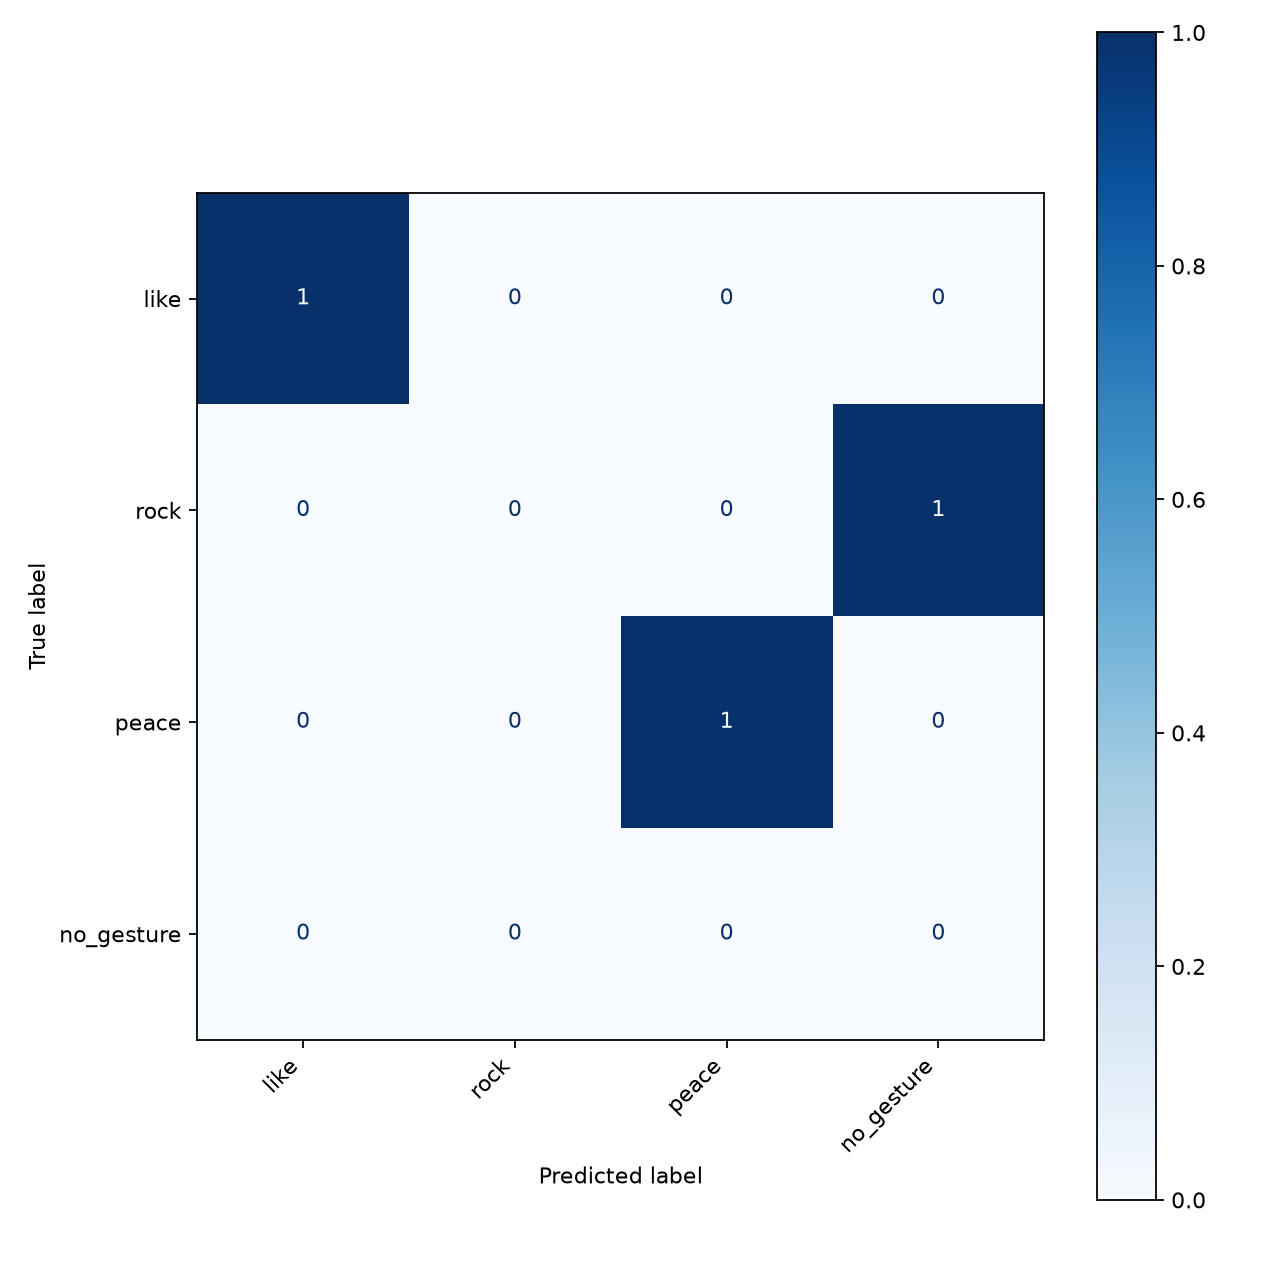
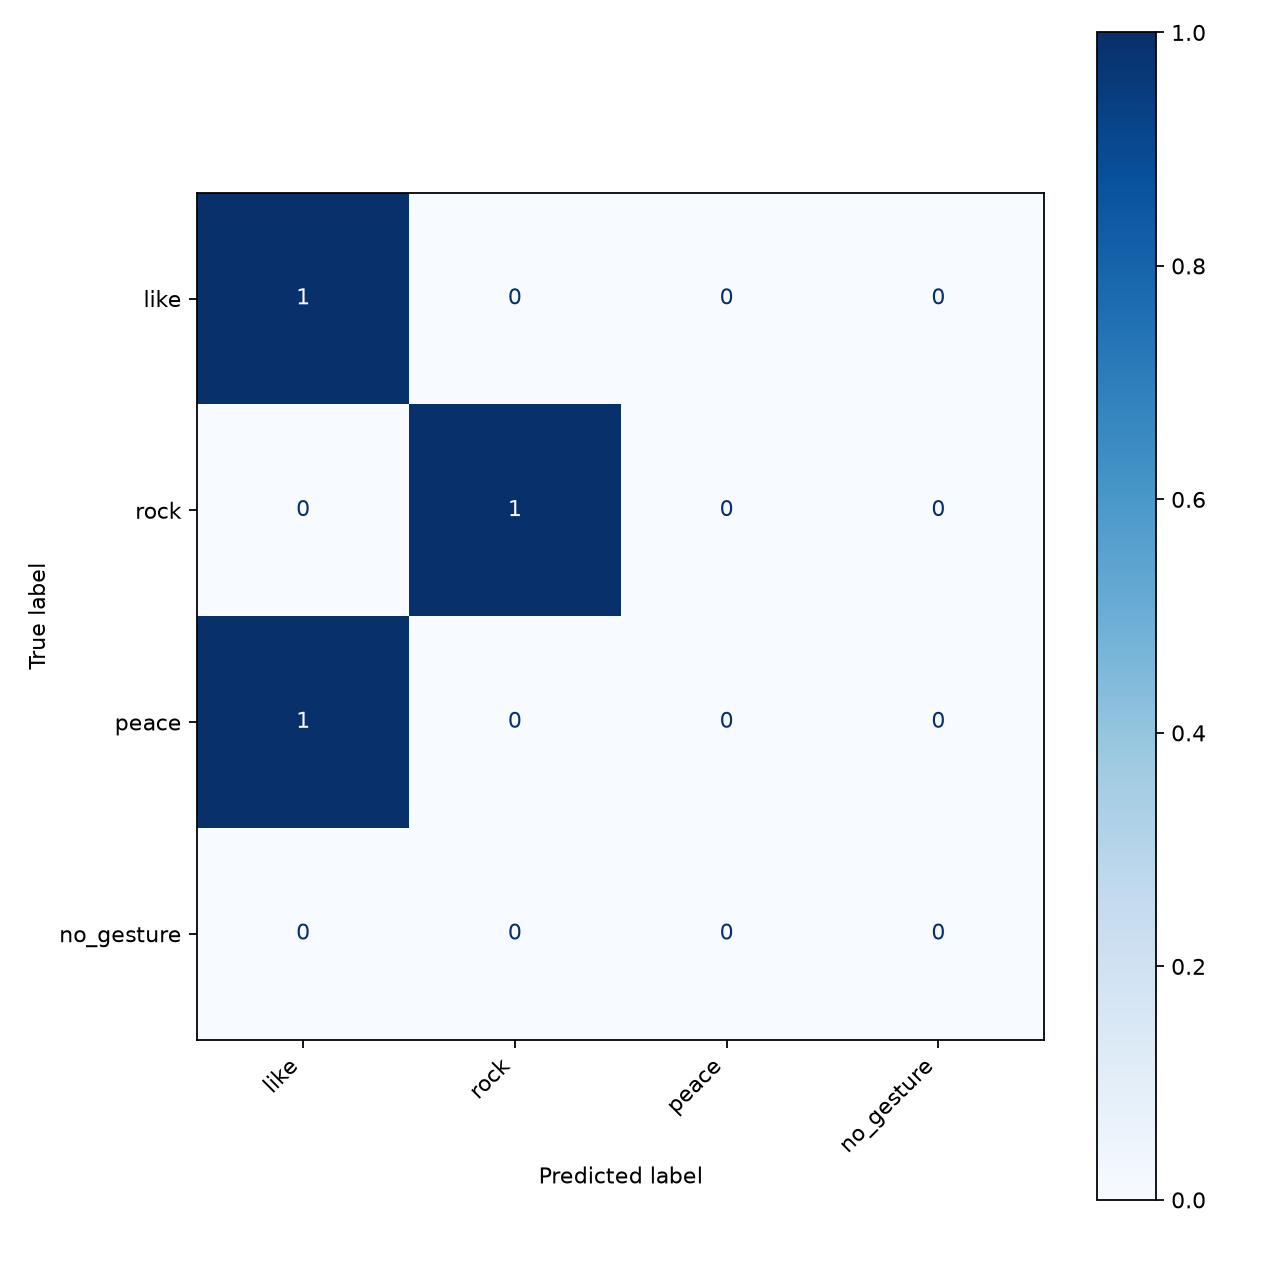
fix cropping

Changed region(s): [[0.1562, 0.3125, 0.8125, 0.6562]]

diff --git a/02-dataset/plotConfMatrix.py b/02-dataset/plotConfMatrix.py
@@ -1,0 +1,199 @@
+import argparse
+import json
+import os
+import tempfile
+from pathlib import Path
+
+import cv2
+import numpy as np
+
+cache_dir = Path(tempfile.gettempdir()) / "gesture_confusion_matrix_cache"
+os.environ.setdefault("MPLCONFIGDIR", str(cache_dir / "matplotlib"))
+os.environ.setdefault("XDG_CACHE_HOME", str(cache_dir / "xdg"))
+
+import matplotlib
+
+matplotlib.use("Agg")
+from matplotlib import pyplot as plt
+from keras.models import load_model
+from sklearn.metrics import ConfusionMatrixDisplay, confusion_matrix
+
+IMG_SIZE = 64
+COLOR_CHANNELS = 3
+DEFAULT_LABEL_NAMES = ["like", "rock", "peace", "no_gesture"]
+OUTPUT = "confusion_matrix_samuel_scheer.png"
+MODEL = "gesture_recognition.keras"
+JSON = "samuel_scheer_images/annot-samuel_scheer.json"
+
+
+def parse_args():
+    script_dir = Path(__file__).resolve().parent
+
+    parser = argparse.ArgumentParser(
+        description="Predict gesture labels from an annotation JSON and plot a confusion matrix."
+    )
+    parser.add_argument(
+        "--model",
+        type=Path,
+        default=script_dir / MODEL,
+    )
+    parser.add_argument(
+        "--annotations",
+        type=Path,
+        default=script_dir / JSON,
+    )
+    parser.add_argument(
+        "--images-dir",
+        type=Path,
+        default=None,
+    )
+    parser.add_argument(
+        "--labels",
+        nargs="+",
+        default=DEFAULT_LABEL_NAMES,
+    )
+    parser.add_argument(
+        "--output",
+        type=Path,
+        default=script_dir / OUTPUT,
+    )
+    return parser.parse_args()
+
+
+def bbox_center_to_crop(image, bbox):
+    """Convert normalized center-x/center-y/width/height bbox to a clamped crop."""
+    image_height, image_width = image.shape[:2]
+    x_center, y_center, width, height = bbox
+
+    x1 = int(round((x_center - width / 2) * image_width))
+    y1 = int(round((y_center - height / 2) * image_height))
+    x2 = int(round((x_center + width / 2) * image_width))
+    y2 = int(round((y_center + height / 2) * image_height))
+
+    x1 = max(0, min(image_width, x1))
+    y1 = max(0, min(image_height, y1))
+    x2 = max(0, min(image_width, x2))
+    y2 = max(0, min(image_height, y2))
+
+    if x2 <= x1 or y2 <= y1:
+        raise ValueError(f"Invalid bbox after clamping: {bbox}")
+
+    return image[y1:y2, x1:x2]
+
+
+def preprocess_image(image):
+    resized = cv2.resize(image, (IMG_SIZE, IMG_SIZE))
+    return resized.astype("float32") / 255.0
+
+
+def image_path_for_id(images_dir, image_id):
+    for extension in (".png", ".jpg", ".jpeg"):
+        path = images_dir / f"{image_id}{extension}"
+        if path.exists():
+            return path
+    raise FileNotFoundError(f"No image found for '{image_id}' in {images_dir}")
+
+
+def load_annotated_images(annotations_path, images_dir, label_names):
+    with annotations_path.open() as f:
+        annotations = json.load(f)
+
+    images = []
+    true_labels = []
+    sample_names = []
+
+    for image_id, annotation in annotations.items():
+        image_path = image_path_for_id(images_dir, image_id)
+        image = cv2.imread(str(image_path), cv2.IMREAD_COLOR)
+        if image is None:
+            raise ValueError(f"Could not read image: {image_path}")
+
+        for hand_index, bbox in enumerate(annotation["bboxes"]):
+            label = annotation["labels"][hand_index]
+            if label not in label_names:
+                raise ValueError(
+                    f"Label '{label}' is not in --labels {label_names}. "
+                    "Pass the model's training labels in output order."
+                )
+
+            crop = bbox_center_to_crop(image, bbox)
+            images.append(preprocess_image(crop))
+            true_labels.append(label_names.index(label))
+            sample_names.append(f"{image_path.name} hand {hand_index + 1}")
+
+    return np.array(images), np.array(true_labels), sample_names
+
+
+def predict(model, images):
+    output_classes = model.output_shape[-1]
+    batch_size = model.input_shape[0] or len(images)
+
+    if output_classes is not None and output_classes <= 0:
+        raise ValueError(f"Unexpected model output shape: {model.output_shape}")
+
+    if batch_size and len(images) < batch_size:
+        padding = np.repeat(images[-1:], batch_size - len(images), axis=0)
+        padded_images = np.concatenate([images, padding], axis=0)
+        return model.predict(padded_images, verbose=0)[: len(images)]
+
+    return model.predict(images, verbose=0)
+
+
+def main():
+    args = parse_args()
+    images_dir = args.images_dir or args.annotations.parent
+
+    if len(args.labels) == 0:
+        raise ValueError("At least one label name is required.")
+
+    model = load_model(args.model)
+    output_classes = model.output_shape[-1]
+    if output_classes != len(args.labels):
+        raise ValueError(
+            f"The model outputs {output_classes} classes, but --labels has "
+            f"{len(args.labels)} entries: {args.labels}"
+        )
+
+    X_test, y_test, sample_names = load_annotated_images(
+        args.annotations, images_dir, args.labels
+    )
+
+    probabilities = predict(model, X_test)
+    y_predictions = np.argmax(probabilities, axis=1)
+
+    print("Labels:", args.labels)
+    print("Probabilities:")
+    for sample_name, true_index, predicted_index, row in zip(
+        sample_names, y_test, y_predictions, probabilities
+    ):
+        true_label = args.labels[true_index]
+        predicted_label = args.labels[predicted_index]
+        confidence = row[predicted_index]
+        rounded = np.round(row, 4).tolist()
+        print(
+            f"  {sample_name}: true={true_label}, predicted={predicted_label}, "
+            f"confidence={confidence:.4f}, probabilities={rounded}"
+        )
+
+    print("Predicted label indices:", y_predictions.tolist())
+
+    conf_matrix = confusion_matrix(
+        y_test, y_predictions, labels=list(range(len(args.labels)))
+    )
+    print("Confusion matrix:")
+    print(conf_matrix)
+
+    fig, ax = plt.subplots(figsize=(8, 8))
+    ConfusionMatrixDisplay(conf_matrix, display_labels=args.labels).plot(
+        ax=ax, cmap="Blues", values_format="d"
+    )
+    plt.xticks(rotation=45, ha="right")
+    plt.tight_layout()
+
+    args.output.parent.mkdir(parents=True, exist_ok=True)
+    fig.savefig(args.output, dpi=160)
+    print(f"Saved confusion matrix plot to: {args.output}")
+
+
+if __name__ == "__main__":
+    main()

diff --git a/02-dataset/combined_images/showCropped.py b/02-dataset/combined_images/showCropped.py
@@ -1,0 +1,59 @@
+import json
+import os
+import cv2
+import numpy as np
+
+ANNOT_PATH = "02-dataset/combined_images/annot-combined.json"
+IMAGE_FOLDER = "02-dataset/combined_images"
+IMG_EXT = ".png"
+
+
+def denormalize_bbox(bbox, img_w, img_h):
+    x1, y1, w, h = bbox
+
+    x1 = int(x1 * img_w)
+    y1 = int(y1 * img_h)
+    x2 = int((x1 / img_w + w) * img_w)
+    y2 = int((y1 / img_h + h) * img_h)
+
+    return x1, y1, x2, y2
+
+
+def main():
+    with open(ANNOT_PATH, "r") as f:
+        data = json.load(f)
+
+    for img_id, entry in data.items():
+
+        img_path = os.path.join(IMAGE_FOLDER, img_id + IMG_EXT)
+        img = cv2.imread(img_path)
+
+        if img is None:
+            print(f"Could not load {img_path}")
+            continue
+
+        img_h, img_w = img.shape[:2]
+
+        for i, bbox in enumerate(entry["bboxes"]):
+            x1, y1, x2, y2 = denormalize_bbox(bbox, img_w, img_h)
+
+            crop = img[y1:y2, x1:x2]
+
+            label = entry["labels"][i] if i < len(entry["labels"]) else "unknown"
+
+            window_name = f"{img_id} - {label} - {i}"
+
+            cv2.imshow(window_name, crop)
+
+            print(f"{img_id} | {label} | bbox: {bbox}")
+
+            key = cv2.waitKey(0)  # press space key to go to next
+            if key == 27:  # ESC to quit
+                cv2.destroyAllWindows()
+                return
+
+            cv2.destroyWindow(window_name)
+
+
+if __name__ == "__main__":
+    main()

diff --git a/02-dataset/calculateBbox.py b/02-dataset/calculateBbox.py
@@ -1,21 +1,18 @@
 def calculate_bbox(x1, y1, x2, y2, image_width, image_height):
+    # ensure ordering
     x_left = min(x1, x2)
-    x_right = max(x1, x2)
     y_top = min(y1, y2)
+    x_right = max(x1, x2)
     y_bottom = max(y1, y2)
 
-    bbox_width = x_right - x_left
-    bbox_height = y_bottom - y_top
+    # convert to normalized top-left format
+    x = x_left / image_width
+    y = y_top / image_height
 
-    x_center = x_left + bbox_width / 2
-    y_center = y_top + bbox_height / 2
+    w = (x_right - x_left) / image_width
+    h = (y_bottom - y_top) / image_height
 
-    return [
-        x_center / image_width,
-        y_center / image_height,
-        bbox_width / image_width,
-        bbox_height / image_height,
-    ]
+    return [x, y, w, h]
 
 
 bbox1 = calculate_bbox(